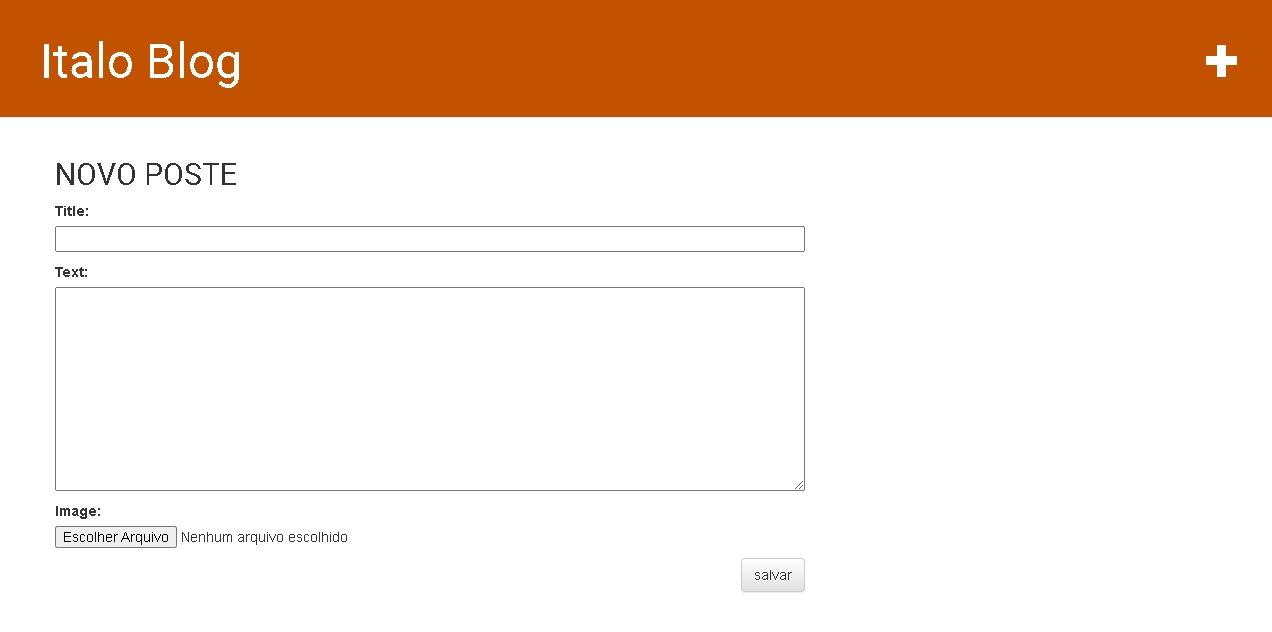
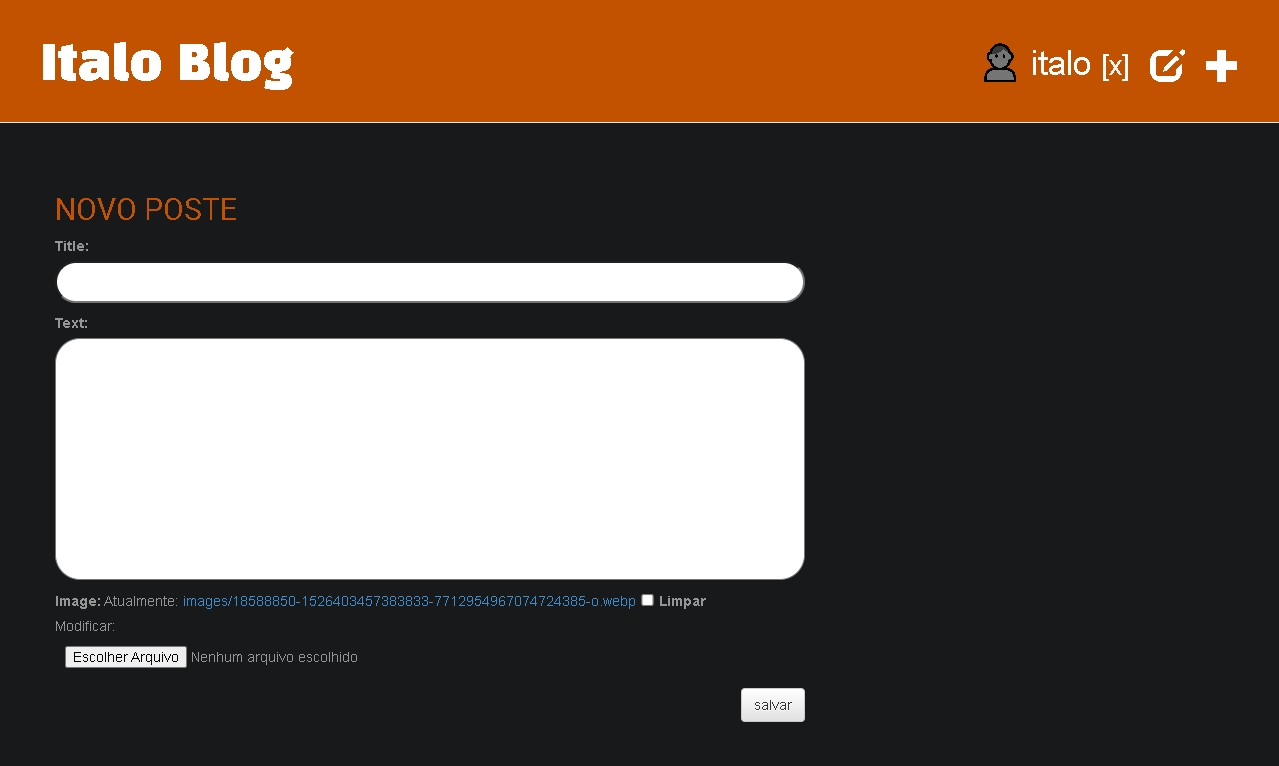
readme + css fixes

diff --git a/blog/static/css/blog.css b/blog/static/css/blog.css
@@ -143,3 +143,13 @@ input {
   color: red;
   font-weight: bold;
 }
+
+#image-clear_id {
+  width: 15;
+  height: 12;
+}
+
+div,
+label {
+  color: #969696;
+}

diff --git a/README.md b/README.md
@@ -23,7 +23,9 @@ Esse projeto foi desenvolvido utilizando as seguintes tecnologias:
 ### Tela de Detalhes do Post 📓
 
 ![detalhes do post](/.github/post-details.jpg)
+#Comentários
 
+![comentarios](/.gitgub/comment)
 ### Tela de cadastro dos Posts 📡
 
 ![post edit](/.github/post-edit.jpg)
